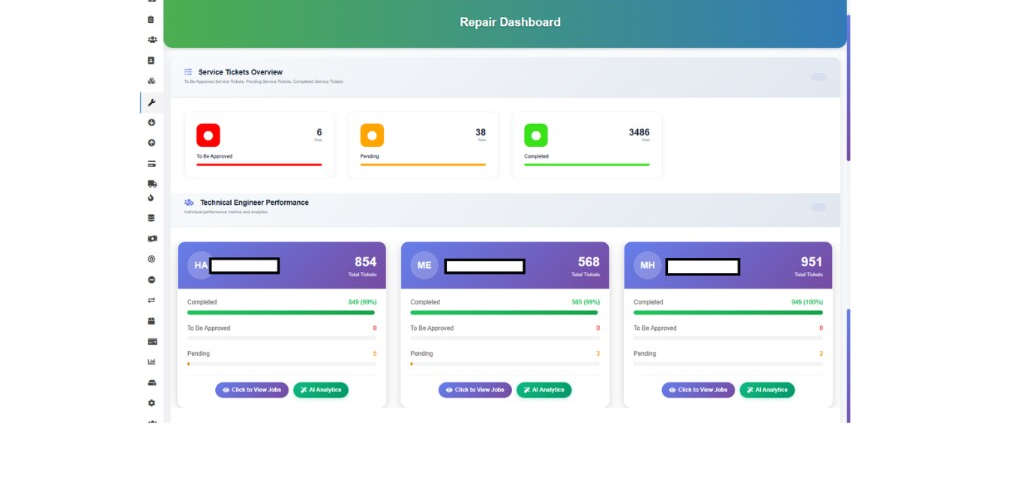
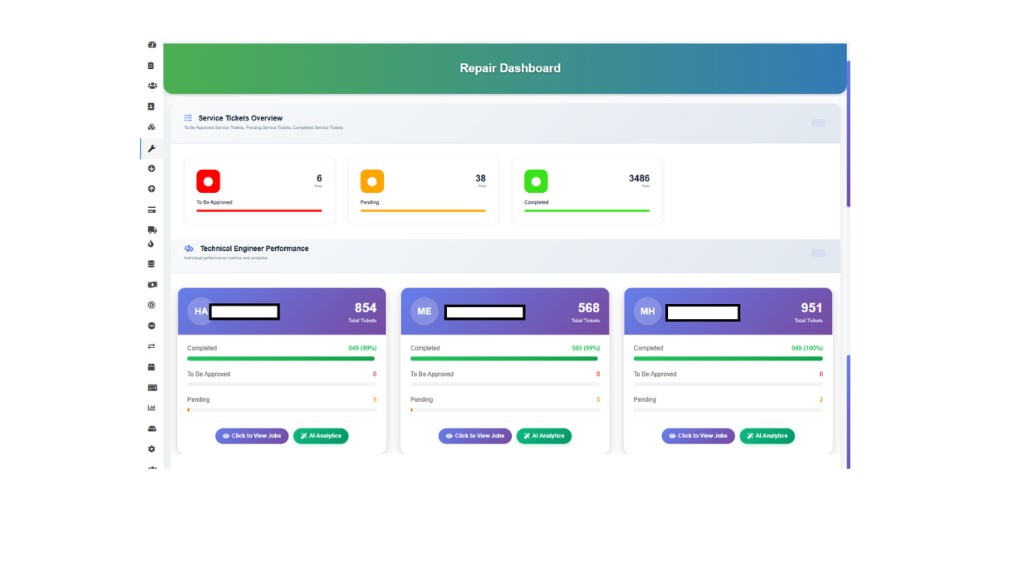
Add tasks, calendar, HR, and repair AI case study shots.

diff --git a/src/content/flashmedErp.js b/src/content/flashmedErp.js
@@ -69,38 +69,38 @@ export const flashmedErp = {
     {
       n: "07",
       file: "07-tasks",
-      title: "Tasks by person and priority",
+      title: "Tasks by engineer and priority",
       problem:
-        "Managers couldn’t see who was overloaded or which work was Hot versus Low without opening each queue.",
+        "Managers could not see who was overloaded or which work was Hot versus Low without opening each person’s queue.",
       built:
-        "A tasks board with All / Completed totals and per-person cards broken into Low / Medium / High / Hot.",
+        "A tasks board with All / Completed totals and per-engineer cards — Low / Medium / High / Hot — so load and urgency are visible in one screen.",
     },
     {
       n: "08",
       file: "08-calendar",
-      title: "Team calendar across departments",
+      title: "Team calendar across users and departments",
       problem:
-        "Field visits and office work lived in chats and personal calendars, so conflicts showed up late.",
+        "Service visits and appointments lived in chat threads, so clashes showed up only on the day.",
       built:
-        "A shared month calendar filterable by user and department, with bilingual entries and overflow counts per day.",
+        "A shared month calendar with filters for users and departments, so field work and meetings sit on one schedule.",
     },
     {
       n: "09",
       file: "09-hr-home",
-      title: "HR home for leave and payroll",
+      title: "HR home for leave, payroll, and staff files",
       problem:
-        "Leave status, payroll, and staff documents were scattered across separate screens.",
+        "Leave requests, payroll, and staff documents were split across tools HR had to check separately.",
       built:
-        "An HR home with On Leave / Pending / Approved tiles plus jumps into Payroll, Documents, Staff, and Internships.",
+        "An HR home with On Leave / Pending / Approved cards plus shortcuts into Payroll, Documents, Manage Staff, and Internships.",
     },
     {
       n: "10",
       file: "10-repair-ai",
       title: "Repair dashboard with AI analytics",
       problem:
-        "Managers saw ticket counts, but not a quick read on each engineer’s completed vs pending work.",
+        "Managers could see ticket counts, but not a quick read on each engineer’s completed vs pending work.",
       built:
-        "A Repair Dashboard with ticket totals and per-engineer cards — View Jobs plus an AI Analytics action on the same performance data.",
+        "A Repair Dashboard with ticket overview cards and per-engineer performance — View Jobs plus AI Analytics on the same repair data.",
     },
   ],
 };
